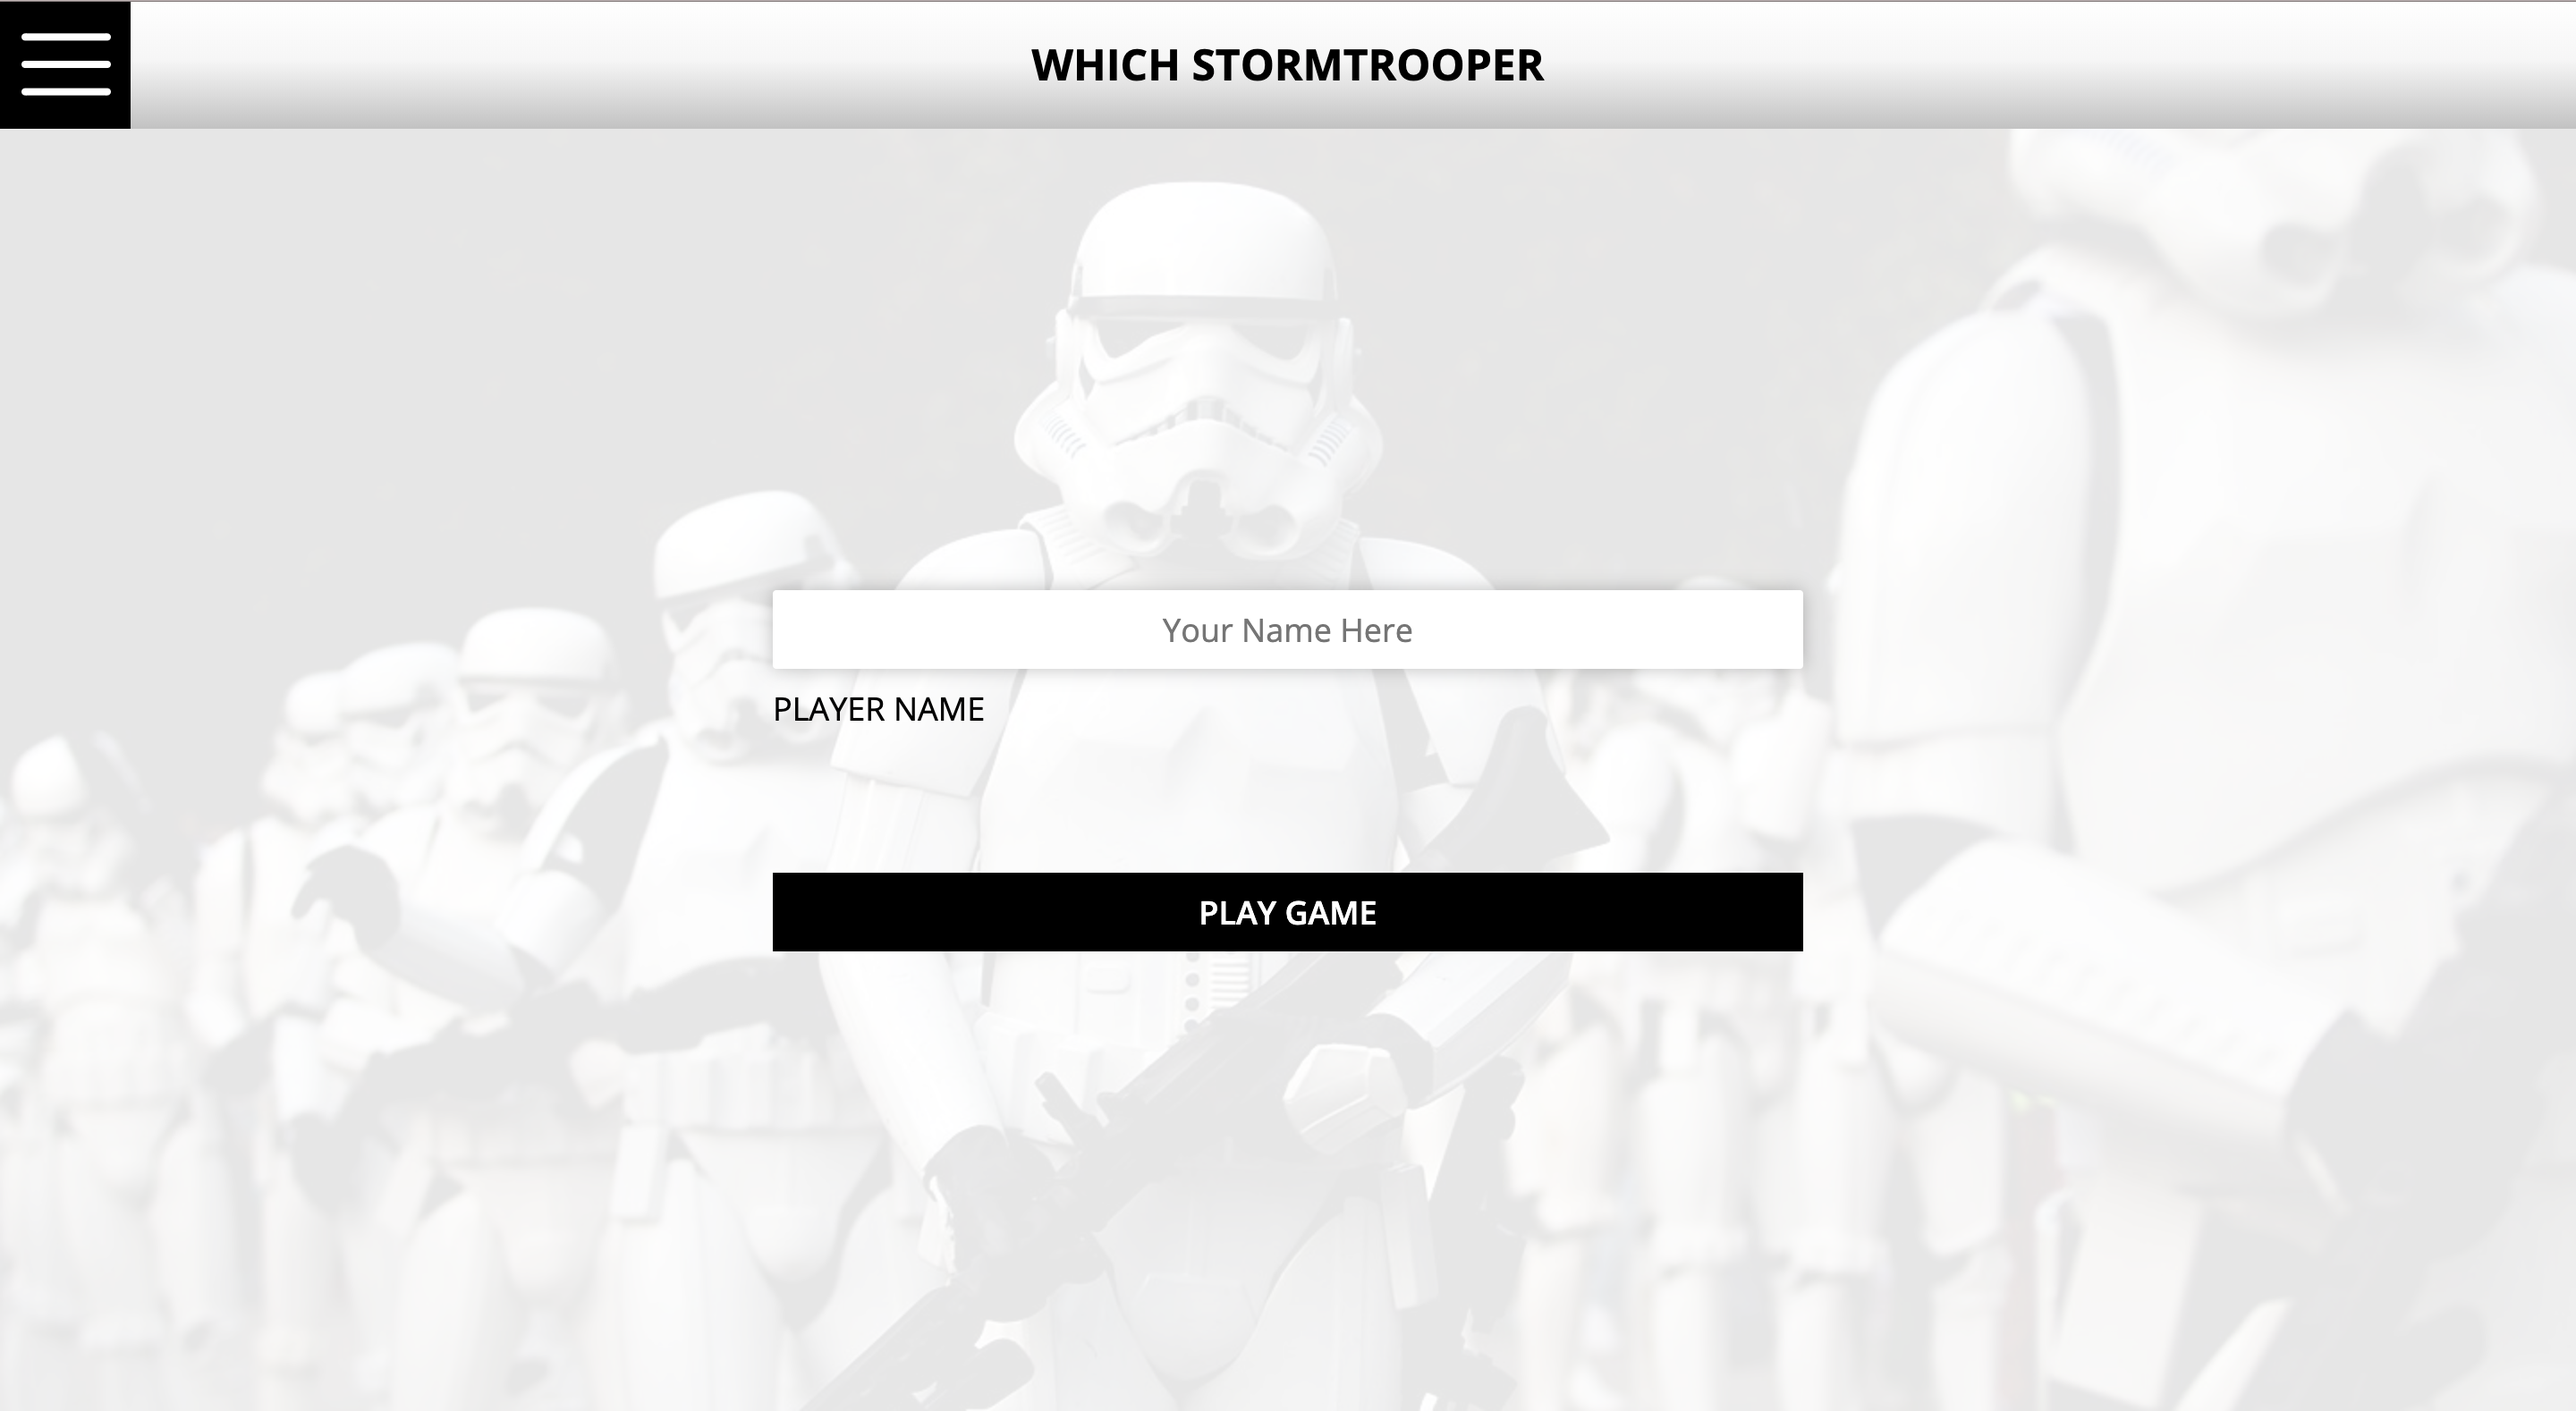
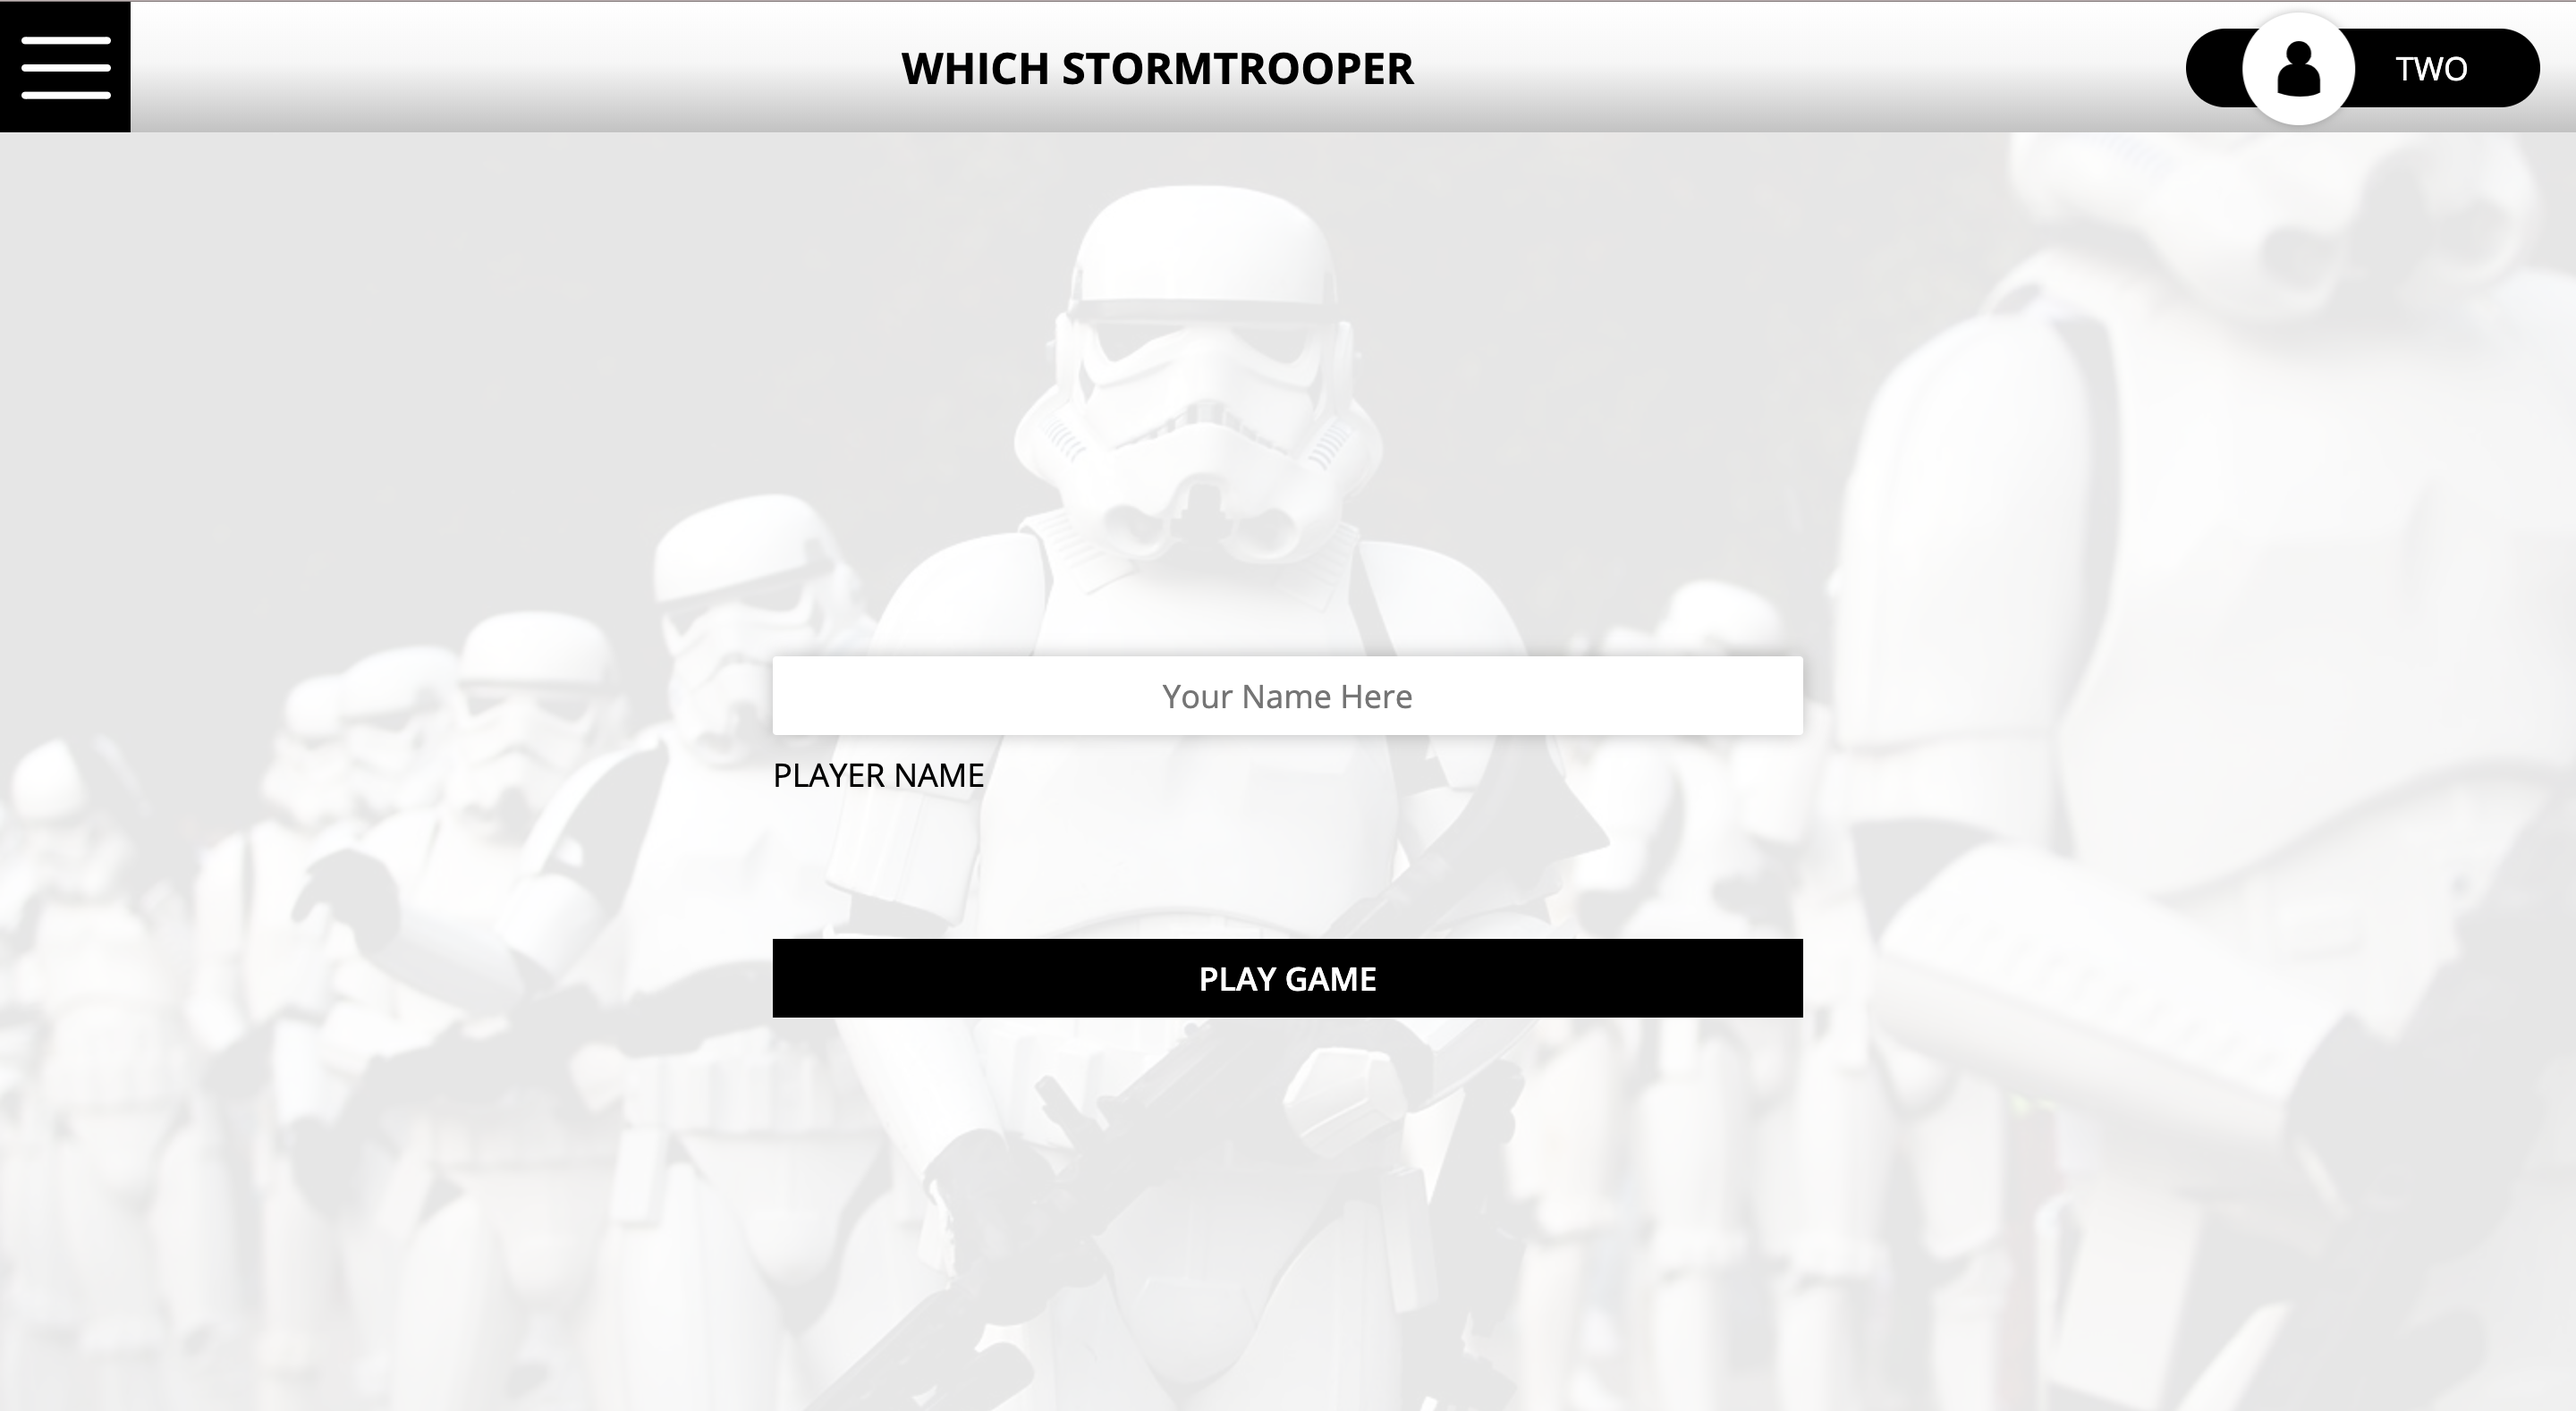
Add style guide for project

diff --git a/README.md b/README.md
@@ -8,16 +8,31 @@ Player takes turn flipping over two cards at a time. If they match, that player 
 
 ## Style guide
 
-**First page**
+**First page for one player**
 ![First page](/screenshots/scr_sh-1.png)
 
-**Page with game rules**
+**Page with game rules for one player**
 ![Rules page](/screenshots/scr_sh-2.png)
 
-**Game board**
+**Game board for one player**
 ![Before game](/screenshots/scr_sh-3.png)
 ![After start](/screenshots/scr_sh-4.png)
-![In process](/screenshots/scr_sh-5.png)
+
+**First page for two players**
+![First page](/screenshots/scr_sh-5.png)
+
+**Page with game rules for two players**
+![Rules page](/screenshots/scr_sh-6.png)
+
+**Game board for two players**
+![Before game](/screenshots/scr_sh-7.png)
+![After start](/screenshots/scr_sh-8.png)
 
 **Winner banner**
-![Winner banner](/screenshots/scr_sh-6.png)
+![Winner banner](/screenshots/scr_sh-9.png)
+
+**Top list when 5 winners**
+![Winner banner](/screenshots/scr_sh-10.png)
+
+**Top list when no winners**
+![Winner banner](/screenshots/scr_sh-11.png)
